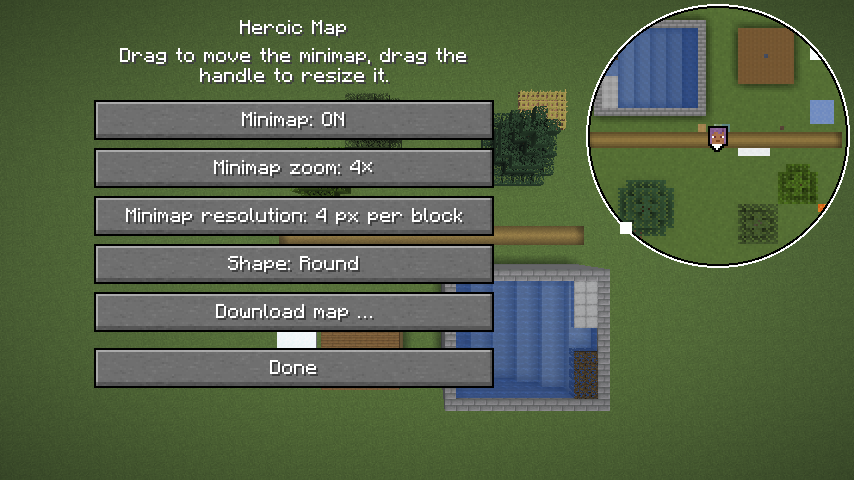
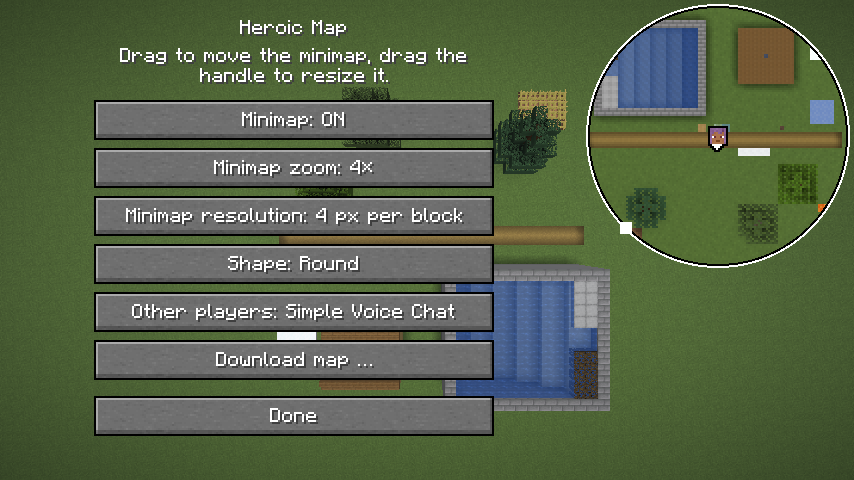
Review #21: Zeilen des Grunds untereinander, Mitspieler.sichtbar; Menü-Bild

diff --git a/src/main/java/com/nekyia/heroicmap/Karte.java b/src/main/java/com/nekyia/heroicmap/Karte.java
@@ -90,7 +90,7 @@ final class Karte extends Screen {
             Minimap.avatar(g, spieler, px, pz);
             // Die Mitspieler mit Namen, in der Dimension des Spielers. Siehe docs/minimap.md, „Mitspieler“.
             String dimension = spieler.level().dimension().identifier().toString();
-            for (Mitspieler.Eintrag e : Minimap.INSTANZ.show() ? Mitspieler.INSTANZ.aktuell(System.currentTimeMillis()) : java.util.List.<Mitspieler.Eintrag>of()) {
+            for (Mitspieler.Eintrag e : Mitspieler.INSTANZ.sichtbar(System.currentTimeMillis())) {
                 if (!e.dimension().equals(dimension) || e.uuid().equals(spieler.getUUID())) {
                     continue;
                 }

diff --git a/src/main/java/com/nekyia/heroicmap/Minimap.java b/src/main/java/com/nekyia/heroicmap/Minimap.java
@@ -411,7 +411,7 @@ public final class Minimap {
     private void mitspieler(GuiGraphicsExtractor g, Minecraft mc, Rahmen r, LocalPlayer spieler, ClientLevel level) {
         String dimension = level.dimension().identifier().toString();
         double h = r.seite() / 2.0, mx = spieler.getX(), mz = spieler.getZ();
-        for (Mitspieler.Eintrag e : show ? Mitspieler.INSTANZ.aktuell(System.currentTimeMillis()) : List.<Mitspieler.Eintrag>of()) {
+        for (Mitspieler.Eintrag e : Mitspieler.INSTANZ.sichtbar(System.currentTimeMillis())) {
             if (!e.dimension().equals(dimension) || e.uuid().equals(spieler.getUUID())) {
                 continue;
             }

diff --git a/src/main/java/com/nekyia/heroicmap/Einstellungen.java b/src/main/java/com/nekyia/heroicmap/Einstellungen.java
@@ -99,8 +99,10 @@ final class Einstellungen extends Screen {
         // Lehnt der Server show ab, steht der Grund unter den Knöpfen.
         String verweigert = Mitspieler.INSTANZ.verweigert();
         if (verweigert != null) {
+            int zeileY = oben + 172;
             for (FormattedCharSequence zeile : font.split(Component.translatable("heroicmap.menue.show.grund." + verweigert), breite)) {
-                g.centeredText(font, zeile, mitte, oben + 172, TEXT);
+                g.centeredText(font, zeile, mitte, zeileY, TEXT);
+                zeileY += font.lineHeight + 1;
             }
         }
         if (Minimap.INSTANZ.sichtbar()) {

diff --git a/src/main/java/com/nekyia/heroicmap/Mitspieler.java b/src/main/java/com/nekyia/heroicmap/Mitspieler.java
@@ -73,6 +73,11 @@ final class Mitspieler {
         return jetztMs - empfangen > FRIST ? List.of() : liste;
     }
 
+    /** Was Minimap und Vollbildkarte zeichnen: die gültige Liste, bei show hidden nichts. */
+    List<Eintrag> sichtbar(long jetztMs) {
+        return Minimap.INSTANZ.show() ? aktuell(jetztMs) : List.of();
+    }
+
     void leeren() {
         liste = List.of();
         empfangen = 0;
